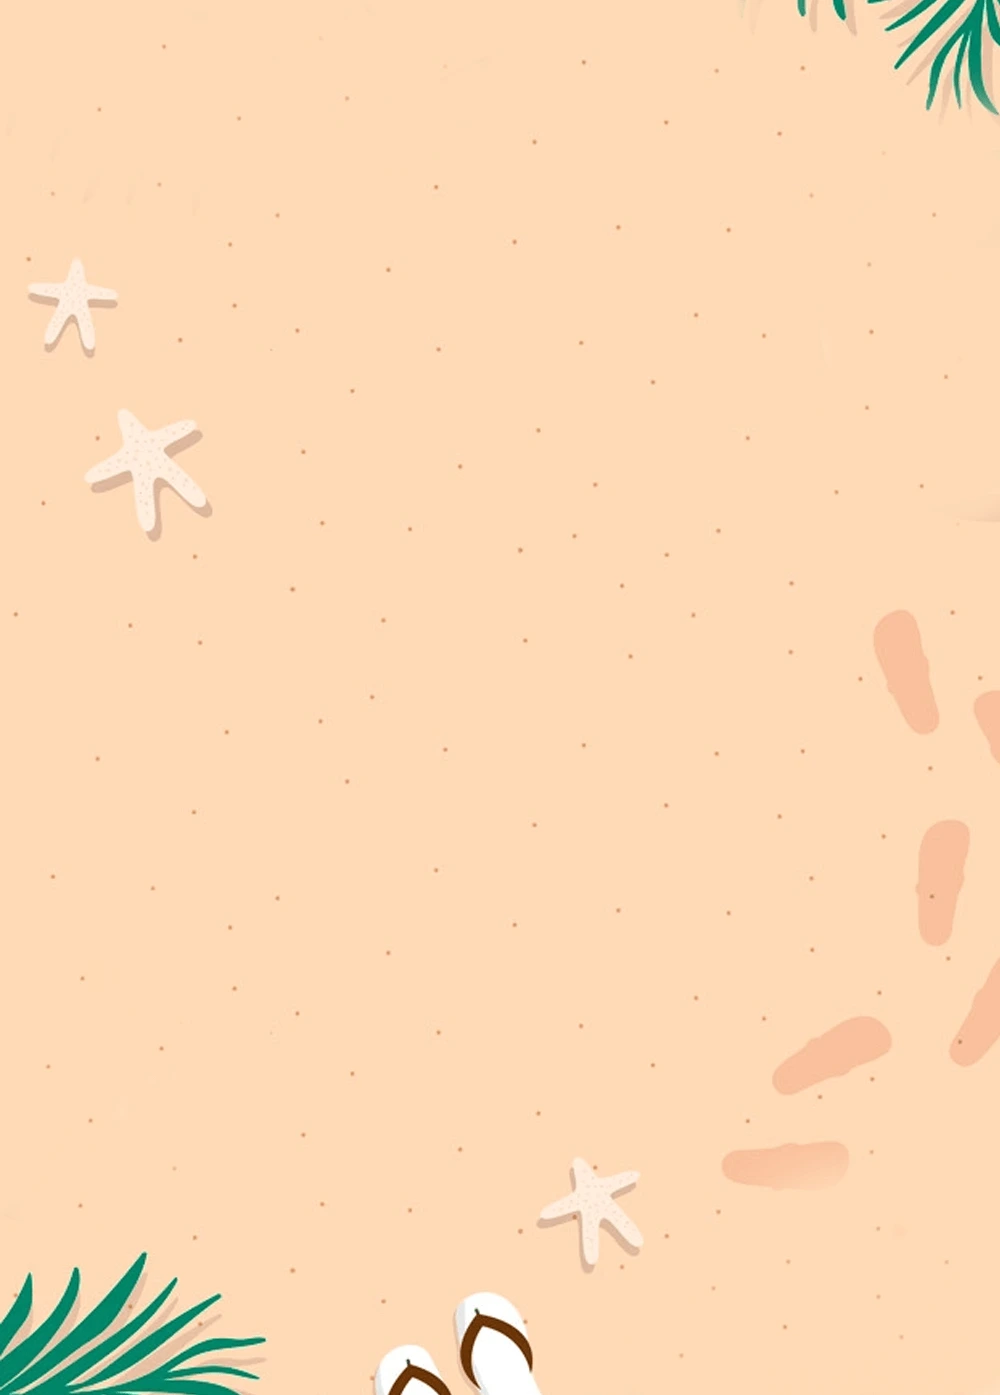
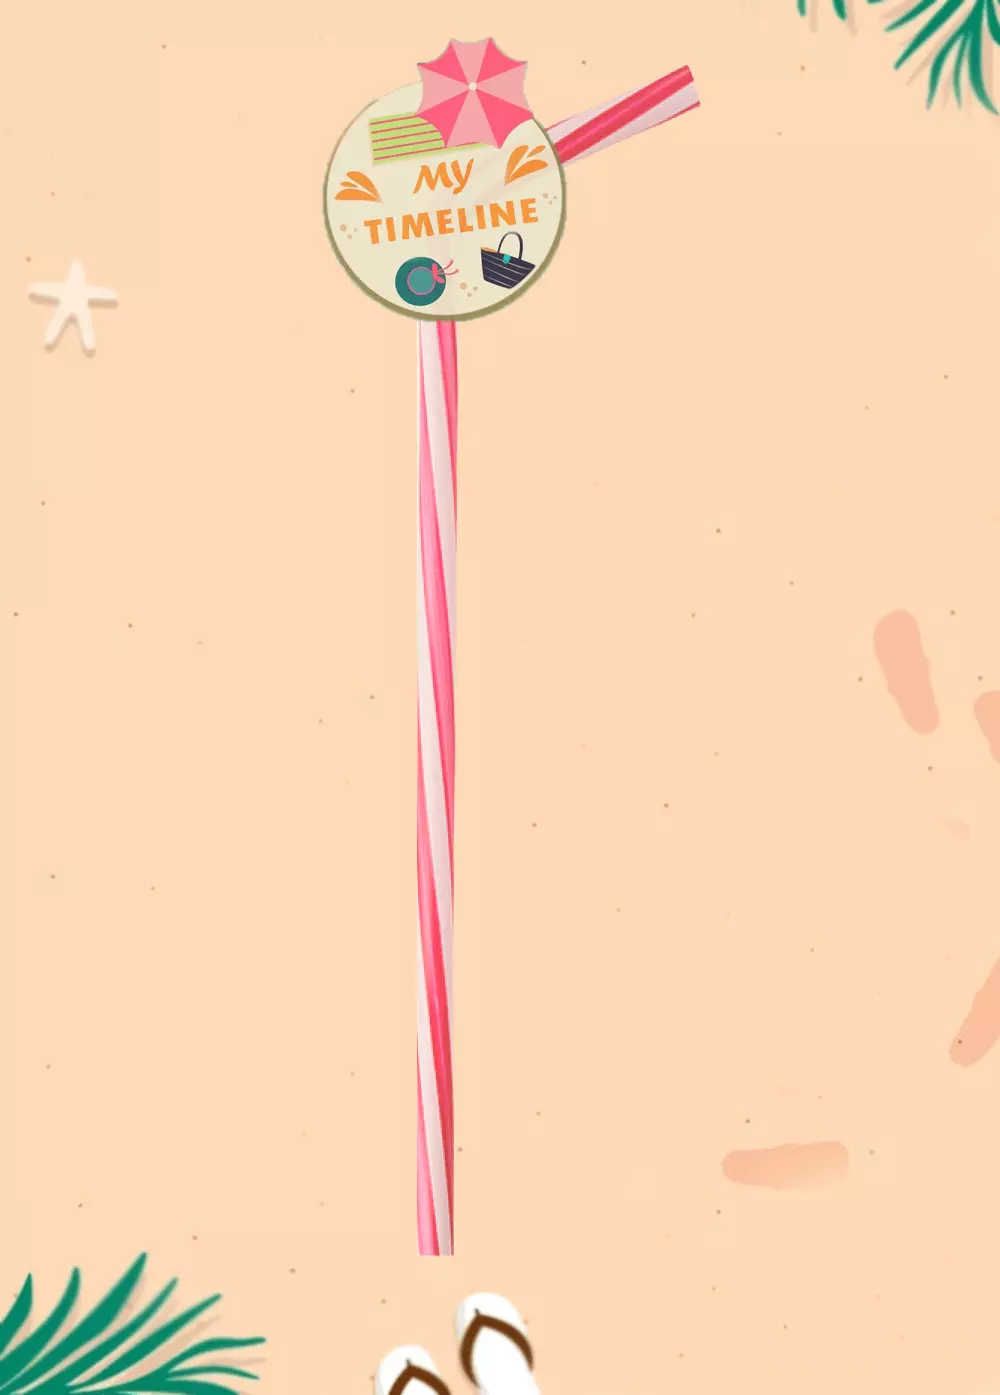
Update UI exp

diff --git a/src/page/exp/experience.tsx b/src/page/exp/experience.tsx
@@ -15,38 +15,25 @@ const Experience: React.FC<{ isShow: boolean }> = ({ isShow }) => {
       {isShow && (
         <div className="relative h-full bg-no-repeat bg-cover">
           <div className="absolute w-full h-full bg-gray-700 opacity-10 top-0 left-0 z-10"></div>
-          <div className="z-50 absolute top-0 left-0 w-full h-full">
-            <div className="flex justify-center mt-5">
-              <img
-                src={`${process.env.PUBLIC_URL}/assets/experience/img-top-experience.png`}
-                className="w-40 mr-36 z-40"
-                alt="top perience"
-              />
-            </div>
-            <div className="px-20 mt-10 relative">
-              <img
-                src={`${process.env.PUBLIC_URL}/assets/experience/img-straw.png`}
-                className="absolute -top-56 left-48 w-52 z-10"
-                alt="straw"
-              />
-
+          <div className="z-50 absolute top-40 left-0 w-full h-full">
+            <div className="px-10 mt-10 relative">
               {ARRAY_EXP.map((item, index) => {
                 const { workplace, time, position, icon } = item;
                 return (
-                  <div key={`exp_${time}`} className="grid grid-cols-3">
+                  <div key={`exp_${time}`} className="grid grid-cols-5">
                     <div
                       className={clsx({
-                        'col-span-1 relative z-40': true,
+                        'col-span-2 relative z-40': true,
                         'h-28': ARRAY_EXP.length !== index + 1,
                       })}
                     >
-                      <span className="block font-semibold text-gray-600 text-xl">{time}</span>
-                      <div className="absolute -top-2 -right-5">
-                        <img src={`${process.env.PUBLIC_URL}${icon}`} alt="ic" className="w-14" />
+                      <span className="block font-semibold text-gray-600 text-lg text-right pr-10">{time}</span>
+                      <div className="absolute -top-2 -right-8">
+                        <img src={`${process.env.PUBLIC_URL}${icon}`} alt="ic" className="w-10" />
                       </div>
                     </div>
-                    <div className="col-span-4 lg:col-span-2 ml-10">
-                      <span className="font-bold text-xl block text-gray-600">{workplace}</span>
+                    <div className="col-span-3 lg:col-span-3 ml-16">
+                      <span className="font-bold text-lg block text-gray-600">{workplace}</span>
                       <span className="block text-gray-600">{position}</span>
                     </div>
                   </div>

diff --git a/src/page/project/project.tsx b/src/page/project/project.tsx
@@ -17,20 +17,7 @@ const Project: React.FC<{ isShow: boolean }> = ({ isShow }) => {
     >
       {isShow && (
         <div className="h-full">
-          <div className="relative">
-            <img
-              src={`${process.env.PUBLIC_URL}/assets/project/img-top-project.png`}
-              alt="top project"
-              className="w-full h-52"
-            />
-            {/* <img
-              src={`${process.env.PUBLIC_URL}/assets/img-label-project.png`}
-              alt="top project"
-              className="absolute top-20 left-5 h-40"
-            /> */}
-          </div>
-
-          <div className="pb-5 px-20 mt-5">
+          <div className="pb-5 px-20 mt-60">
             <div className="grid grid-cols-2 gap-x-20 gap-y-7">
               {ARRAY_PROJECTS.map((item, index) => {
                 return (
@@ -62,24 +49,6 @@ const Project: React.FC<{ isShow: boolean }> = ({ isShow }) => {
               })}
             </div>
           </div>
-
-          <img
-            src={`${process.env.PUBLIC_URL}/assets/project/img-bottom-project-2.png`}
-            className="w-16 absolute bottom-3 left-3 opacity-50"
-            alt="umbrella"
-          />
-
-          <img
-            src={`${process.env.PUBLIC_URL}/assets/project/img-bottom-project-3.png`}
-            className="absolute w-16 bottom-5 right-3 opacity-30"
-            alt="umbrella"
-          />
-
-          <img
-            src={`${process.env.PUBLIC_URL}/assets/project/img-bottom-project-4.png`}
-            className="w-14 h-14 absolute top-44 right-3 opacity-50"
-            alt="umbrella"
-          />
 
           {showProject !== 0 && (
             <div className="fixed top-20 right-20 z-40 px-20 py-10">

diff --git a/src/page/exp/experience.data.ts b/src/page/exp/experience.data.ts
@@ -1,30 +1,30 @@
 export const ARRAY_EXP = [
   {
-    time: '2004 ',
+    time: '2005 - 2010',
     workplace: 'Bao Yen primary school',
-    position: 'Student',
+    position: '',
     icon: '/assets/experience/img-ic-timeline-1.png',
   },
   {
-    time: '2009',
+    time: '2010 - 2014',
     workplace: 'Thanh Thuy secondary school',
-    position: 'Student',
+    position: '',
     icon: '/assets/experience/img-ic-timeline-2.png',
   },
   {
-    time: '2013',
+    time: '2014 - 2017',
     workplace: 'Thanh Thuy high school',
-    position: 'Student',
+    position: '',
     icon: '/assets/experience/img-ic-timeline-3.png',
   },
   {
-    time: '2017',
+    time: '09/2017 - 06/2021',
     workplace: 'University of Transport and Communications',
-    position: 'Student',
+    position: '',
     icon: '/assets/experience/img-ic-timeline-4.png',
   },
   {
-    time: '2020',
+    time: '06/2020 - 12/2021',
     workplace: 'Omnischool (EkidEnglish)',
     position: 'Frontend Developer',
     icon: '/assets/experience/img-ic-timeline-5.png',

diff --git a/src/page/info/info.tsx b/src/page/info/info.tsx
@@ -7,9 +7,9 @@ const Information: React.FC<{ isShow: boolean }> = ({ isShow }) => {
   return (
     <InfoStyle
       className={clsx({
-        'fixed z-20 overflow-y-auto h-screen lg:overflow-hidden transform bg-no-repeat bg-cover top-0 left-0 opacity-90 duration-500':
+        'fixed z-20 overflow-y-auto h-screen lg:overflow-hidden bg-no-repeat bg-cover top-0 left-0 opacity-90 duration-500':
           true,
-        'w-2/3 lg:w-1/3 translate-x-0': isShow,
+        'w-2/3 lg:w-1/3': isShow,
         'w-0': !isShow,
       })}
     >
@@ -90,14 +90,6 @@ const Information: React.FC<{ isShow: boolean }> = ({ isShow }) => {
                 Thanh Thuỷ - Phú Thọ
               </a>
             </div>
-          </div>
-
-          <div className="absolute bottom-0 left-0 w-full">
-            <img
-              src={`${process.env.PUBLIC_URL}/assets/info/img-bottom-info.png`}
-              alt="bottom info"
-              className="h-36 w-full opacity-50"
-            />
           </div>
         </div>
       )}

diff --git a/src/page/info/info.style.ts b/src/page/info/info.style.ts
@@ -1,11 +1,5 @@
 import styled from 'styled-components';
 
 export const InfoStyle = styled.div`
-  background: rgb(255, 255, 255);
-  background: linear-gradient(
-    180deg,
-    rgba(255, 255, 255, 1) 0%,
-    rgba(255, 255, 255, 1) 56%,
-    rgba(233, 208, 210, 1) 100%
-  );
+  background-image: url(${process.env.PUBLIC_URL}/assets/info/img-bg-info.webp);
 `;

diff --git a/src/page/project/project.style.ts b/src/page/project/project.style.ts
@@ -1,5 +1,5 @@
 import styled from 'styled-components';
 
 export const ProjectStyle = styled.div`
-  background-color: #f1d4a5;
+  background-image: url(${process.env.PUBLIC_URL}/assets/project/img-bg-project.webp);
 `;
